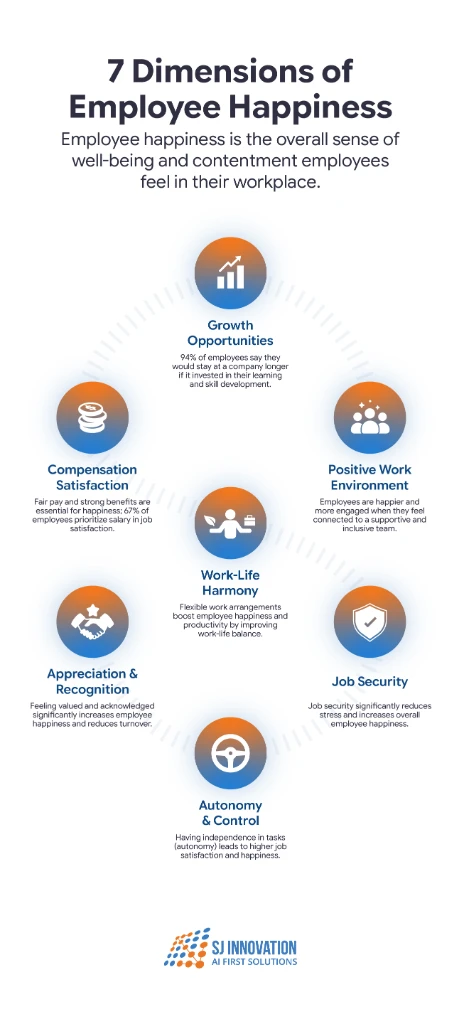
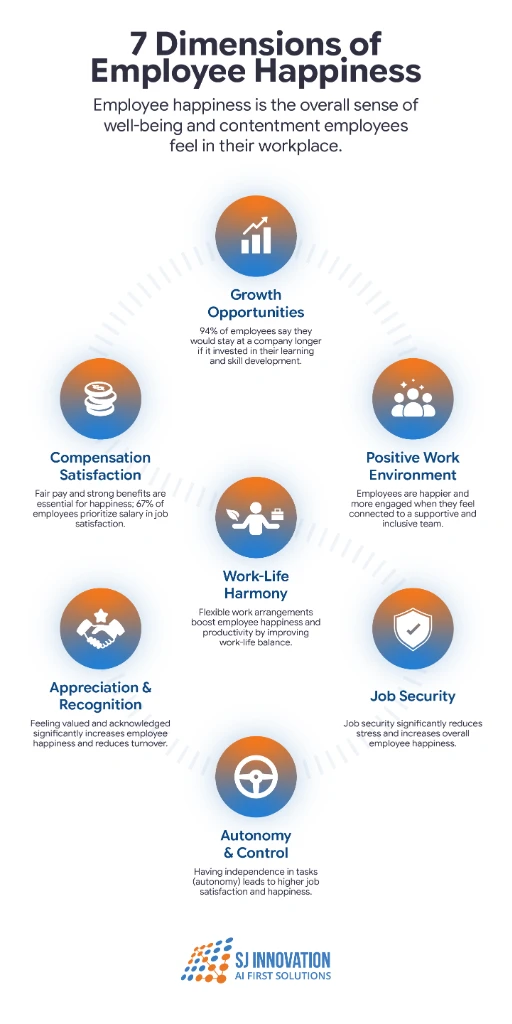
Update print posters with matching 512x1024 dimensions and move section to bottom

diff --git a/src/data/projects.ts b/src/data/projects.ts
@@ -3578,27 +3578,6 @@ export const PROJECTS: Project[] = [
         ]
       },
       {
-        sectionTitle: "Office Culture & Motivational Wall Posters",
-        sectionDescription: "Large-format environmental posters designed to energize engineering pods and communal break areas, celebrating grit, championship mindset, and everyday team camaraderie.",
-        images: [
-          {
-            url: "/assets/projects/print-designs/mohammad-ali-champion-office-poster.webp",
-            caption: "Mohammad Ali Champion Mindset Poster — 'Live the Rest of Your Life as a Champion'",
-            aspectRatio: "682/1024"
-          },
-          {
-            url: "/assets/projects/print-designs/laughter-team-building-vertical-poster.webp",
-            caption: "Culture Banner — 'Laughter is the Best Team-Building Exercise'",
-            aspectRatio: "512/1024"
-          },
-          {
-            url: "/assets/projects/print-designs/employee-happiness-7-dimensions-infographic.webp",
-            caption: "7 Dimensions of Employee Happiness — Workplace Wellbeing Wall Poster",
-            aspectRatio: "461/1024"
-          }
-        ]
-      },
-      {
         sectionTitle: "Recognition Systems — SJ Control Tower Appreciation Certificates",
         sectionDescription: "Modular certificate design system created for the SJ Control Tower internal recognition program. Designed in horizontal A4 landscape format with distinct domain badge iconography, subtle geometric grid and topological linework textures, and brand-aligned pastel gradients honoring exceptional team contributions.",
         images: [
@@ -3846,6 +3825,27 @@ export const PROJECTS: Project[] = [
             type: "desktop"
           }
         ]
+      },
+      {
+        sectionTitle: "Office Culture & Motivational Wall Posters",
+        sectionDescription: "Large-format environmental posters designed to energize engineering pods and communal break areas, celebrating grit, championship mindset, and everyday team camaraderie.",
+        images: [
+          {
+            url: "/assets/projects/print-designs/mohammad-ali-champion-office-poster.webp",
+            caption: "Mohammad Ali Champion Mindset Poster — 'Live the Rest of Your Life as a Champion'",
+            aspectRatio: "512/1024"
+          },
+          {
+            url: "/assets/projects/print-designs/laughter-team-building-vertical-poster.webp",
+            caption: "Culture Banner — 'Laughter is the Best Team-Building Exercise'",
+            aspectRatio: "512/1024"
+          },
+          {
+            url: "/assets/projects/print-designs/employee-happiness-7-dimensions-infographic.webp",
+            caption: "7 Dimensions of Employee Happiness — Workplace Wellbeing Wall Poster",
+            aspectRatio: "512/1024"
+          }
+        ]
       }
     ],
     galleryImages: [
@@ -3857,21 +3857,6 @@ export const PROJECTS: Project[] = [
       {
         url: "/assets/projects/print-designs/effective-meetings-5-tips-infographic.webp",
         caption: "Workplace Infographic — 5 Essential Tips for Running Effective Meetings",
-        type: "portrait"
-      },
-      {
-        url: "/assets/projects/print-designs/mohammad-ali-champion-office-poster.webp",
-        caption: "Office Wall Poster — Mohammad Ali Champion Mindset",
-        type: "portrait"
-      },
-      {
-        url: "/assets/projects/print-designs/laughter-team-building-vertical-poster.webp",
-        caption: "Team Culture Poster — Laughter Team-Building Exercise",
-        type: "portrait"
-      },
-      {
-        url: "/assets/projects/print-designs/employee-happiness-7-dimensions-infographic.webp",
-        caption: "Office Wall Poster — 7 Dimensions of Employee Happiness",
         type: "portrait"
       },
       {
@@ -4048,6 +4033,21 @@ export const PROJECTS: Project[] = [
         url: "/assets/projects/print-designs/holiday-postcard-09-collabai-family-gifts-front-door.webp",
         caption: "Holiday Client Postcard — CollabAI (Family Opening Holiday Gifts)",
         type: "desktop"
+      },
+      {
+        url: "/assets/projects/print-designs/mohammad-ali-champion-office-poster.webp",
+        caption: "Office Wall Poster — Mohammad Ali Champion Mindset",
+        type: "portrait"
+      },
+      {
+        url: "/assets/projects/print-designs/laughter-team-building-vertical-poster.webp",
+        caption: "Team Culture Poster — Laughter Team-Building Exercise",
+        type: "portrait"
+      },
+      {
+        url: "/assets/projects/print-designs/employee-happiness-7-dimensions-infographic.webp",
+        caption: "Office Wall Poster — 7 Dimensions of Employee Happiness",
+        type: "portrait"
       }
     ]
   },
